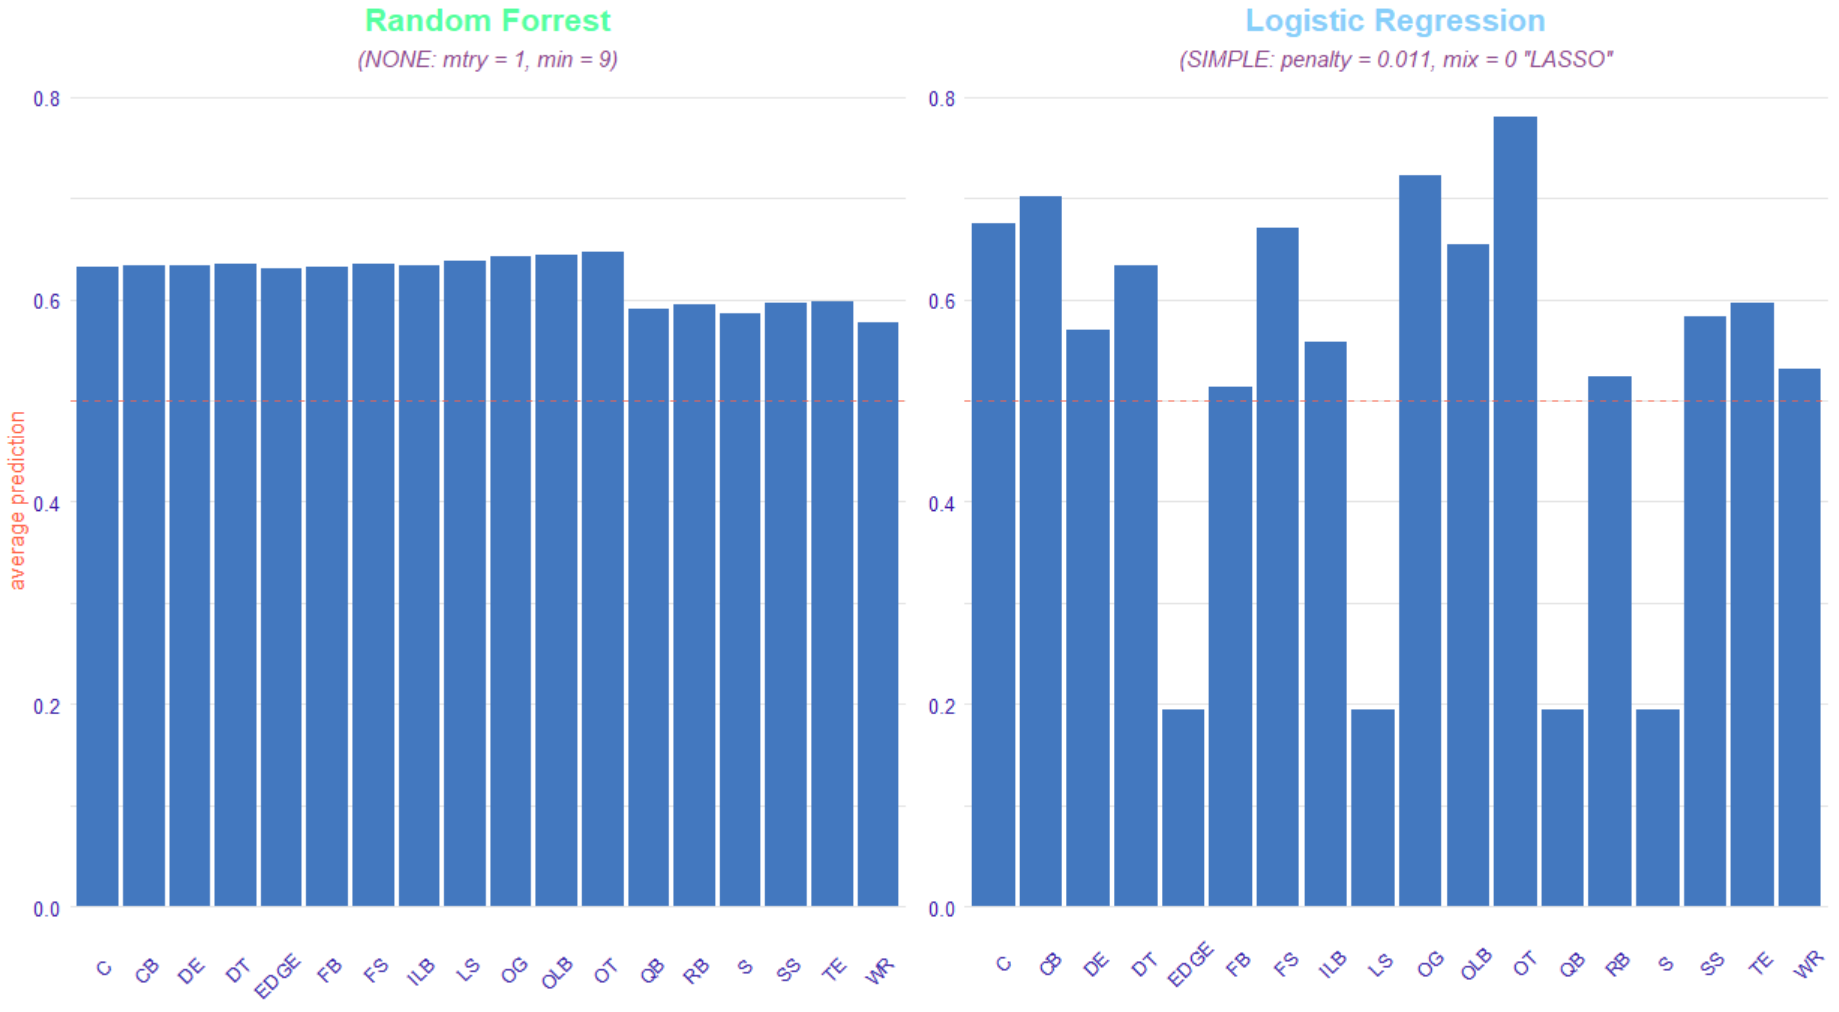
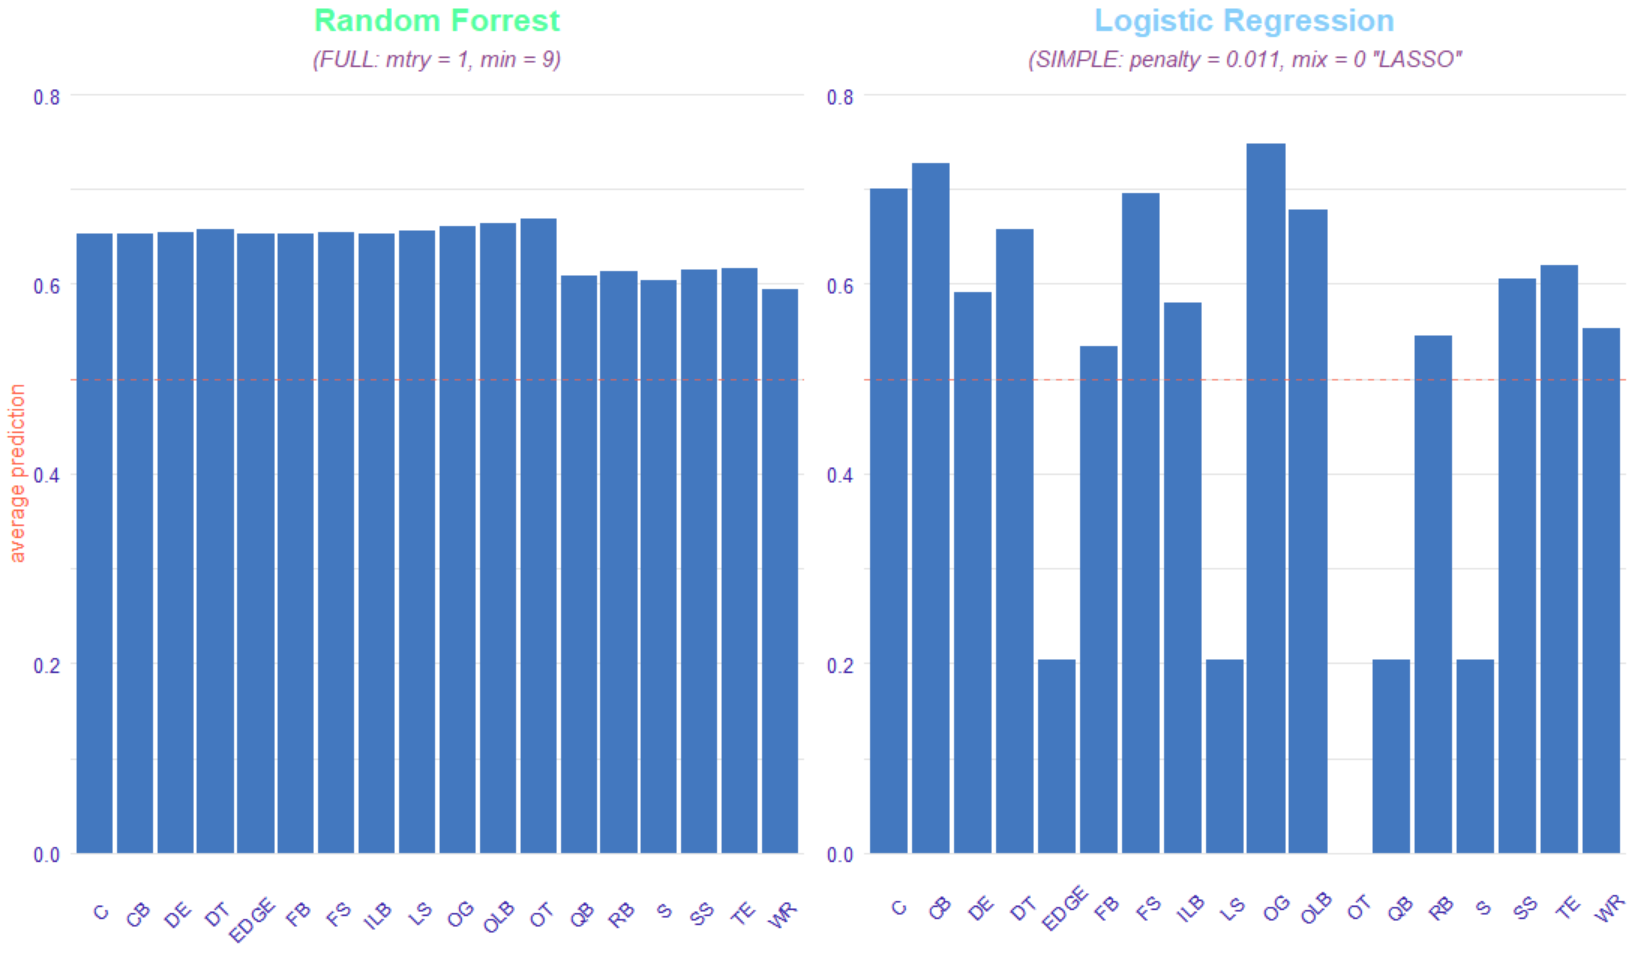
README

diff --git a/README.md b/README.md
@@ -78,6 +78,29 @@ The average _BENCH_ for everyone in the dataset was **_21reps_**. By _Position_:
 The average _BROAD JUMP_ for everyone in the dataset was **_113inches_**. By _Position_: CB = **_122inches_**, DE = **_115inches_**, OLB = **_118inches_**, OT = **_102inches_**, WR = **_121inches_**, RB = **_118inches_**. By _Conference_: Elite = **_113inches_**, Division I-A = **_114inches_**, Division I-AA = **_113inches_**, Divsion II & III = **_112inches_**.
 
 > **MODELING**: \
+Metrics: AUC, Accuracy, Sensitivity, Specificity, F1. \
+The 1st model **Random Forrest** was fit trying three different dataset. 1) As is, meaning no preprocess. 2) using PCA with the 2 principal components. 3) a simpler dataset removing the highly correlated features. \
+The 2nd model **Logistic Regression** was fit trying three different dataset. 1) With minimal preprocessing ("normalized", "dummy"). 2) Minimal preprocessing and PCA using the 2 principal components. 3) simpler dataset removing the highly correlated features and minimal preprocessing.
+
+> **VALIDATION METRICS**
+
+Model | AUC | Accuracy | Sensitivity | Specificity | Precision | Recall | F1
+--- | --- | --- | --- | --- | --- | --- | ---
+**_LOG (NORMAL: P = 0.001, M = 0.5)_** | **_0.737_** | **_0.72_** | **_0.907_** | **_0.365_** | **_0.73_** | **_0.907_** | **_0.809_**
+LOG (SIMPLE: P = 0.011, M = 0) | 0.725 | 0.696 | 0.914 | 0.283 | 0.707 | 0.914 | 0.797
+RF (SIMPLE: mtry = 6, min = 9) | 0.703 | 0.698 | 0.85 | 0.409 | 0.731 | 0.85 | 0.786
+RF (NONE: mtry = 1, min = 9) | 0.737 | 0.707 | 0.944 | 0.258 | 0.706 | 0.944 | 0.808
+
+> **TEST METRICS**
+
+Model | AUC | Accuracy | Sensitivity | Specificity | Precision | Recall | F1
+--- | --- | --- | --- | --- | --- | --- | ---
+**_LOG-Acc NORMAL (P = 0.001, M = 0.5)_** | 0.711 | 0.719 | 0.899 | 0.377 | 0.732 | 0.899 | **_0.807_**
+LOG-F SIMPLE (P = 0.011, M = 0) | 0.688 | 0.691 | 0.907 | 0.281 | 0.705 | 0.907 | 0.794
+RF-Acc SIMPLE (mtry = 6, min = 9) | 0.697 | 0.679 | 0.809 | 0.432 | 0.73 | 0.809 | 0.767
+**_RF-F NONE (mtry = 1, min = 9)_** | 0.7 | 0.693 | **_0.926_** | 0.251 | 0.701 | 0.926 | 0.798
+
+> **PRESCRIPTIVE ANALYSIS**
 
 
 ---
@@ -404,19 +427,19 @@ RF-Acc SIMPLE (mtry = 6, min = 9) | 0.697 | 0.679 | 0.809 | 0.432 | 0.73 | 0.809
 <img src="Images/PA/vip.PNG" width="  1000">
 
 > **Note: (Variable Importance)**
-> - **Logistic Regression (NORMAL)**
+> - **Logistic Regression (Full)**
 >   1. Forty = 0.14
 >   2. Weight = 0.135
 >   3. Position = 0.064
 >   4. Three Cone = 0.033
 >   5. Side = 0.026
-> - **Logistic Regression (SIMPLE)**
+> - **Logistic Regression (Simple)**
 >   1. Forty = 0.121
 >   2. Weight = 0.074
 >   3. Position = 0.044
 >   4. Bench = 0.039
 >   5. Broad Jump = 0.02
-> - **Random Forrest (NONE)**
+> - **Random Forrest (Full)**
 >   1. Weight = 0.061
 >   2. Forty = 0.051
 >   3. Bench = 0.027
